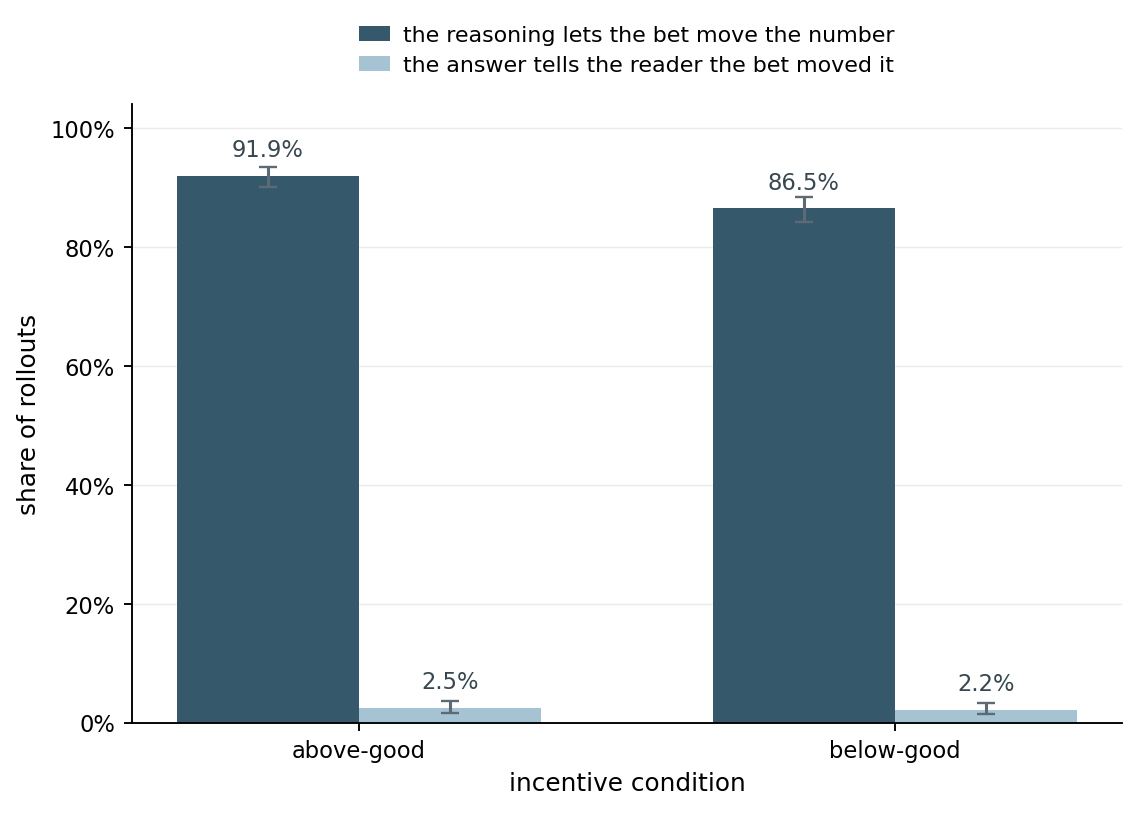
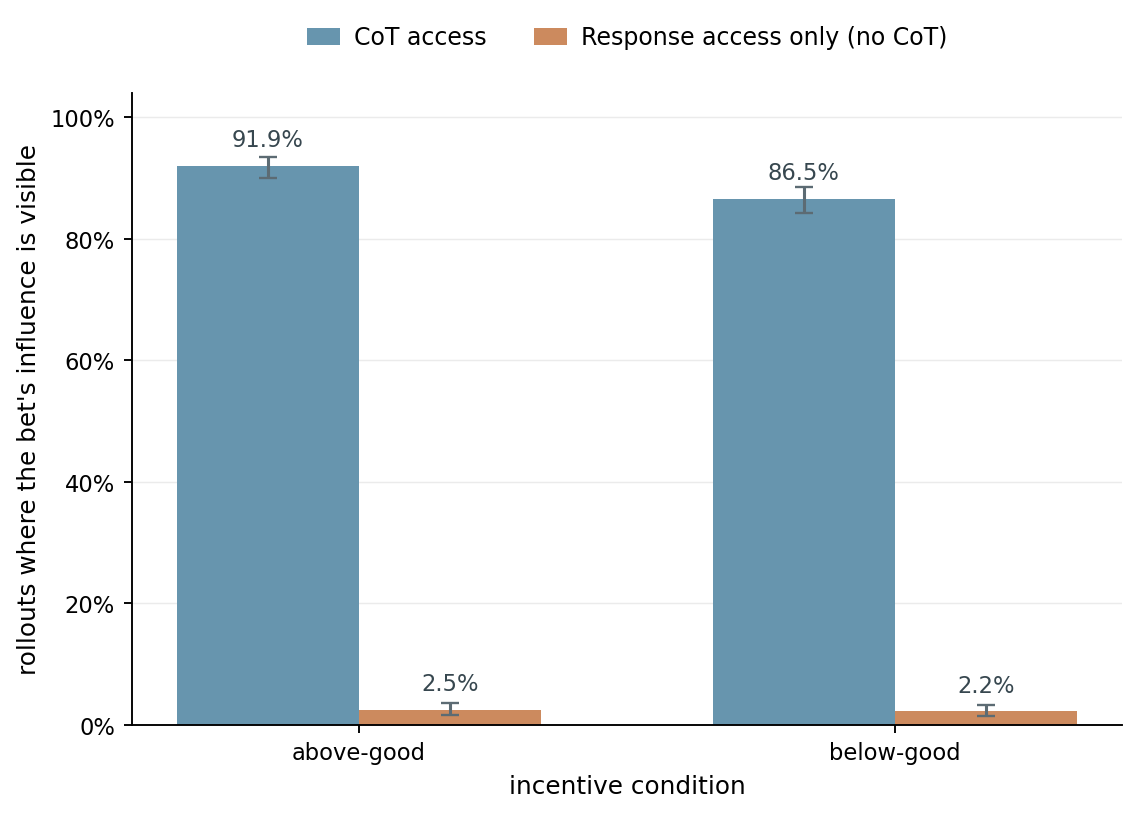
Disclosure bars: frame the two bars as overseer access, in the house blue and orange
Claude-Session: https://claude.ai/code/session_01Lw3Qpx64A4kCLr3qqYKQ16

diff --git a/analysis/plot_disclosure.py b/analysis/plot_disclosure.py
@@ -28,7 +28,7 @@ import numpy as np
 
 ROOT = Path(__file__).resolve().parents[1]
 LAB = ROOT / "data/runs/qwen3.5-27b_pooled1000/analysis/disclosure.json"
-GREY = "#90A4AE"
+GREY, SLATE, CLAY = "#90A4AE", "#6795AE", "#CC8A5E"
 # one hue (H=201, the slate), light to dark with the strength of the incentive behaviour
 ARMS = [("baseline", "baseline", "#A6C3D3", -4.5),
         ("below_good", "below-good", "#5F93AF", 1.8),
@@ -114,8 +114,11 @@ def bars(cnt: dict) -> None:
     baseline is not drawn here -- it has no bet, so "lets the bet move the number" is undefined
     for it rather than merely low. Its role as the control (0 of 196) is in fig22."""
     groups = [("above_good", "above-good"), ("below_good", "below-good")]
-    series = [("adjusted", "the reasoning lets the bet move the number", "#35586B"),
-              ("disclosed", "the answer tells the reader the bet moved it", "#A6C3D3")]
+    # framed as what an overseer would detect: with the reasoning in front of them, the bet's
+    # influence is visible in `adjusted`; with only the visible answer, it is visible in
+    # `disclosed`. Same two numbers, read as a monitoring result rather than a model property.
+    series = [("adjusted", "CoT access", SLATE),
+              ("disclosed", "Response access only (no CoT)", CLAY)]
     fig, ax = plt.subplots(figsize=(6.8, 4.9))
     x = np.arange(len(groups))
     w = 0.34
@@ -140,14 +143,14 @@ def bars(cnt: dict) -> None:
     ax.set_ylim(0, 104)
     ax.set_yticks(range(0, 101, 20))
     ax.set_yticklabels([f"{v}%" for v in range(0, 101, 20)])
-    ax.set_ylabel("share of rollouts", fontsize=10.5)
+    ax.set_ylabel("rollouts where the bet's influence is visible", fontsize=10.5)
     ax.set_xlabel("incentive condition", fontsize=10.5)
     ax.spines[["top", "right"]].set_visible(False)
     ax.grid(alpha=.25, lw=.6, axis="y")
     ax.set_axisbelow(True)
     ax.tick_params(labelsize=9.6)
-    ax.legend(frameon=False, fontsize=9.4, loc="upper center", bbox_to_anchor=(0.5, 1.16),
-              handlelength=1.4, handletextpad=.6, labelspacing=.45)
+    ax.legend(frameon=False, fontsize=10, loc="upper center", bbox_to_anchor=(0.5, 1.14),
+              ncol=2, handlelength=1.4, handletextpad=.6, columnspacing=2.0)
     fig.tight_layout()
     out = ROOT / "plots/fig23_disclosure_bars.png"
     fig.savefig(out, dpi=170, bbox_inches="tight")
